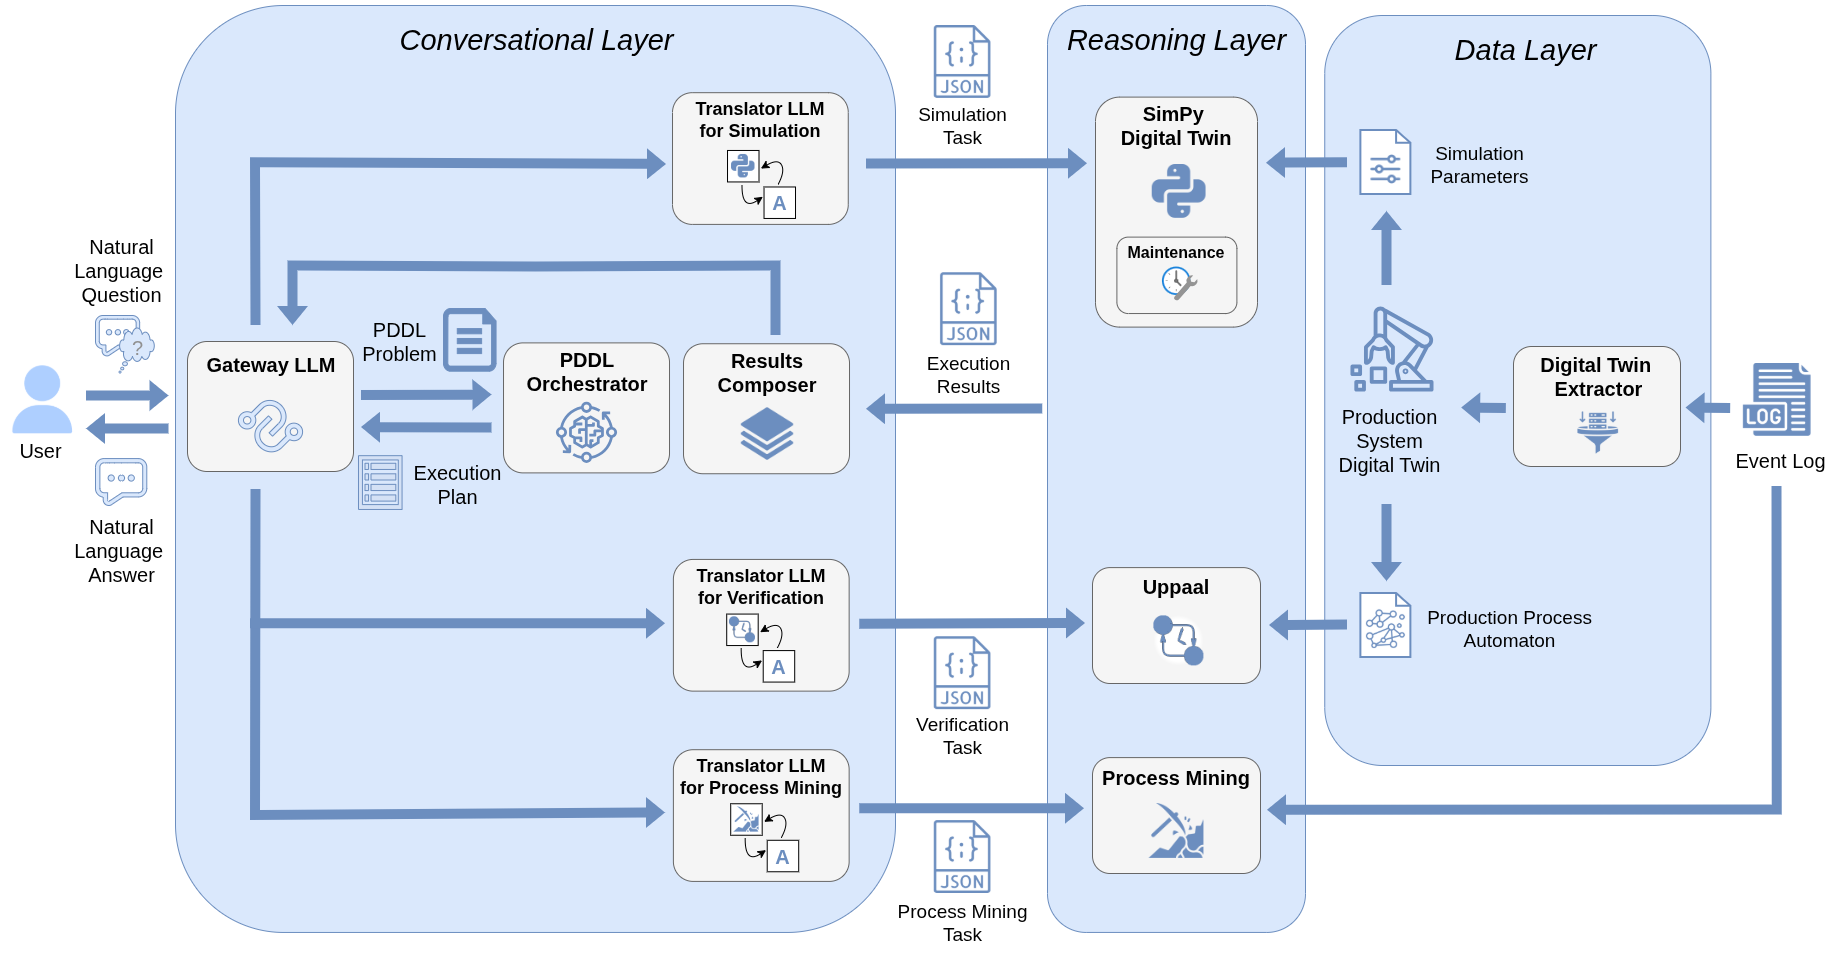
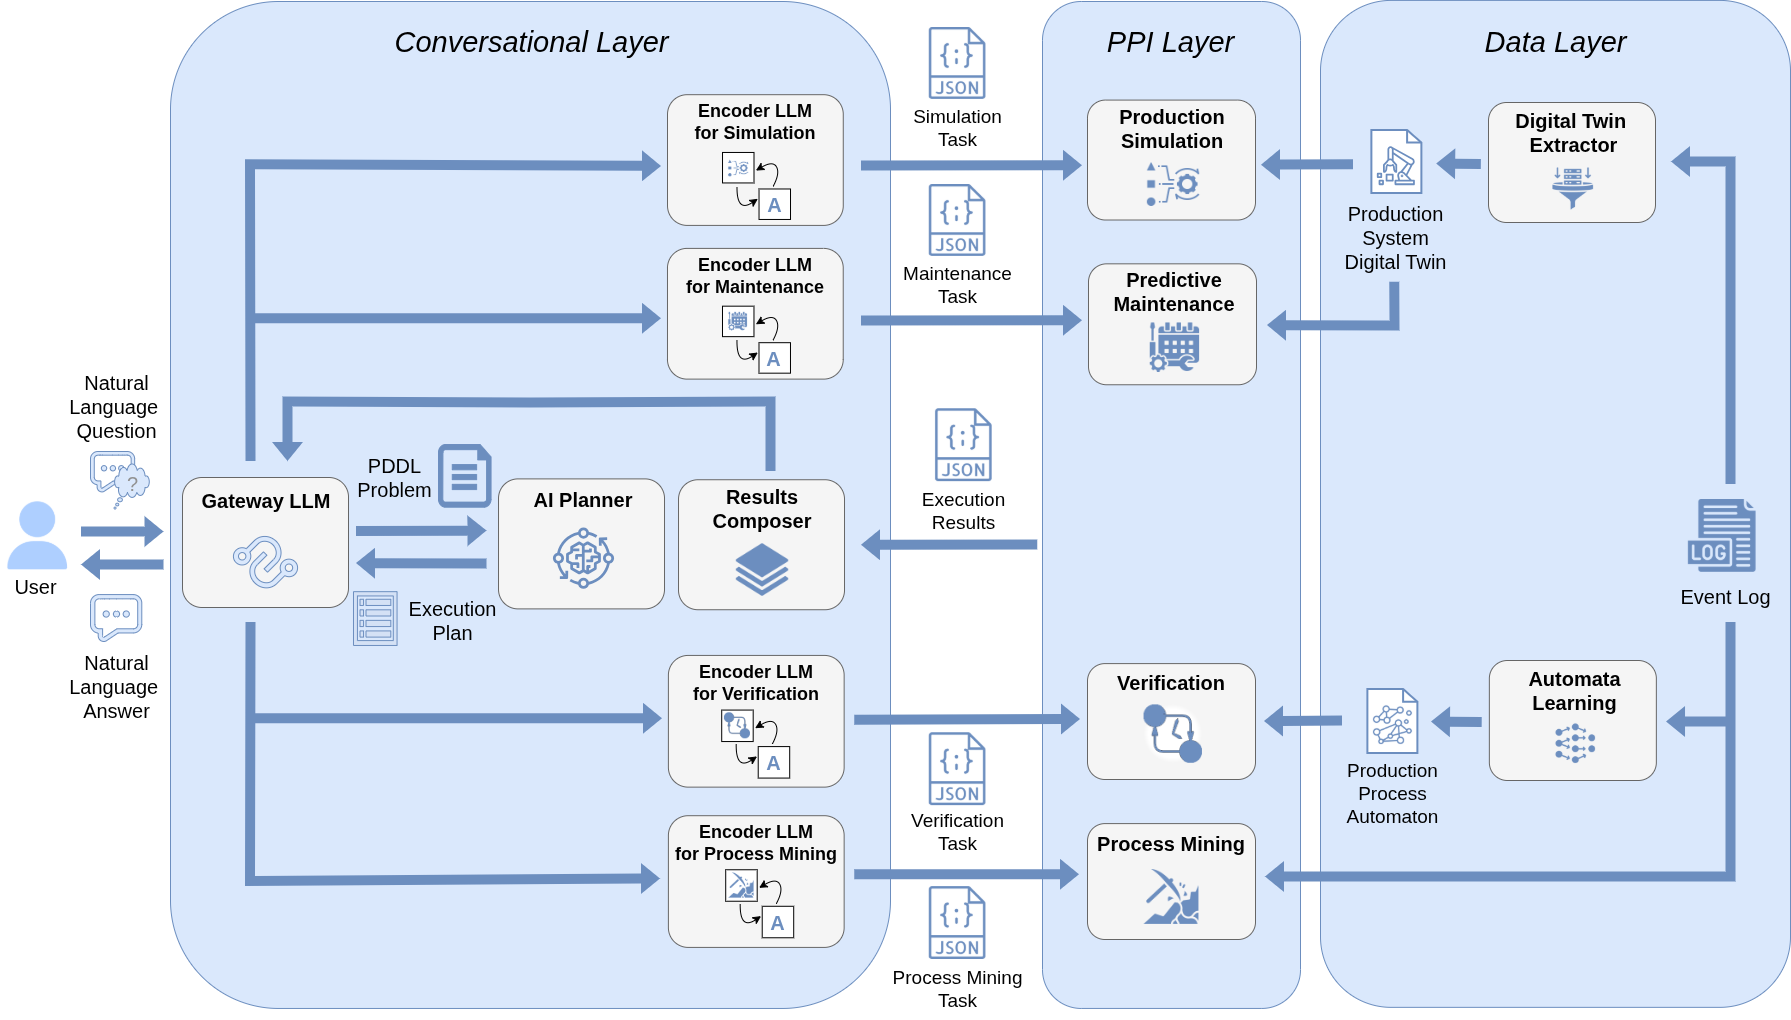
updated readme

diff --git a/README.md b/README.md
@@ -14,7 +14,7 @@ The Figure shows the components of the framework and how they interact.
 
 The framework is designed to provide grounded and interpretable answers to natural language requests concerning a production process, i.e., the representation of the activities performed within a production system. It achieves this through the integration of a *Conversational Layer* and a *Reasoning Layer*. The former tackles the formulation of the problem to be fed to the Reasoning Layer and the interpretation of the results in response to the user. The latter exploits either a digital twin simulating the production process or a formal verifier reasoning on its automaton or process mining module exracting data directly from an event log. Therefore, the approach assumes the availability of an event log allowing the extraction of the simulation parameters to build the digital twin and the automaton modeling the production process. The first one is obtained through an *Extractor* that mines the needed information to build the production system's digital twin, while the second one is provided by a domain expert. Both are not LLM-generated to ensure their correctness.
 
-As illustrated in the Figure, the Conversational Layer includes a set of LLMs: the *Gateway LLM*, which routes the user’s questions, and the *Translator LLMs* for *Simulation*, *Verification* and *Process Mining*, which translate these requests into machine-readable representations compatible with the corresponding reasoners' syntax.
+As illustrated in the Figure, the Conversational Layer includes a set of LLMs: the *Gateway LLM*, which routes the user’s questions, and the *Encoder LLMs* for *Production Simulation*, *Predictive Maintenance*, *Verification* and *Process Mining*, which translate these requests into machine-readable representations compatible with the corresponding reasoners' syntax.
 
 ## Structure of the repository
 
@@ -199,8 +199,8 @@ The default parameters are:
 To customize these settings, modify the corresponding arguments when executing `main.py`:
 
 * Use `--llm_id_gateway` to specify a different Gateway LLM (e.g., among the ones reported in the *LLMs Requirements* section).
-* Use `--llm_id_simulation` to specify a different Translator LLM for Simulation (e.g., among the ones reported in the *LLMs Requirements* section).
-* Use `--llm_id_verification` to specify a different Translator LLM for Verification (e.g., among the ones reported in the *LLMs Requirements* section).
+* Use `--llm_id_simulation` to specify a different Encoder LLM for Simulation (e.g., among the ones reported in the *LLMs Requirements* section).
+* Use `--llm_id_verification` to specify a different Encoder LLM for Verification (e.g., among the ones reported in the *LLMs Requirements* section).
 * Adjust `--max_new_tokens` to change the number of generated tokens.
 * Set `--modality` to alter the interaction modality (i.e., `'live'`, `'evaluation-simulation'`, '`evaluation-verification`', `'evaluation-factory_info`', `'evaluation-process_mining`', `'evaluation-hybrid`', '`evaluation-routing`' and '`evaluation-qualitative-hybrid`').
 * Use `--extracted_model` to specify if the model has already been extracted (True or False).
